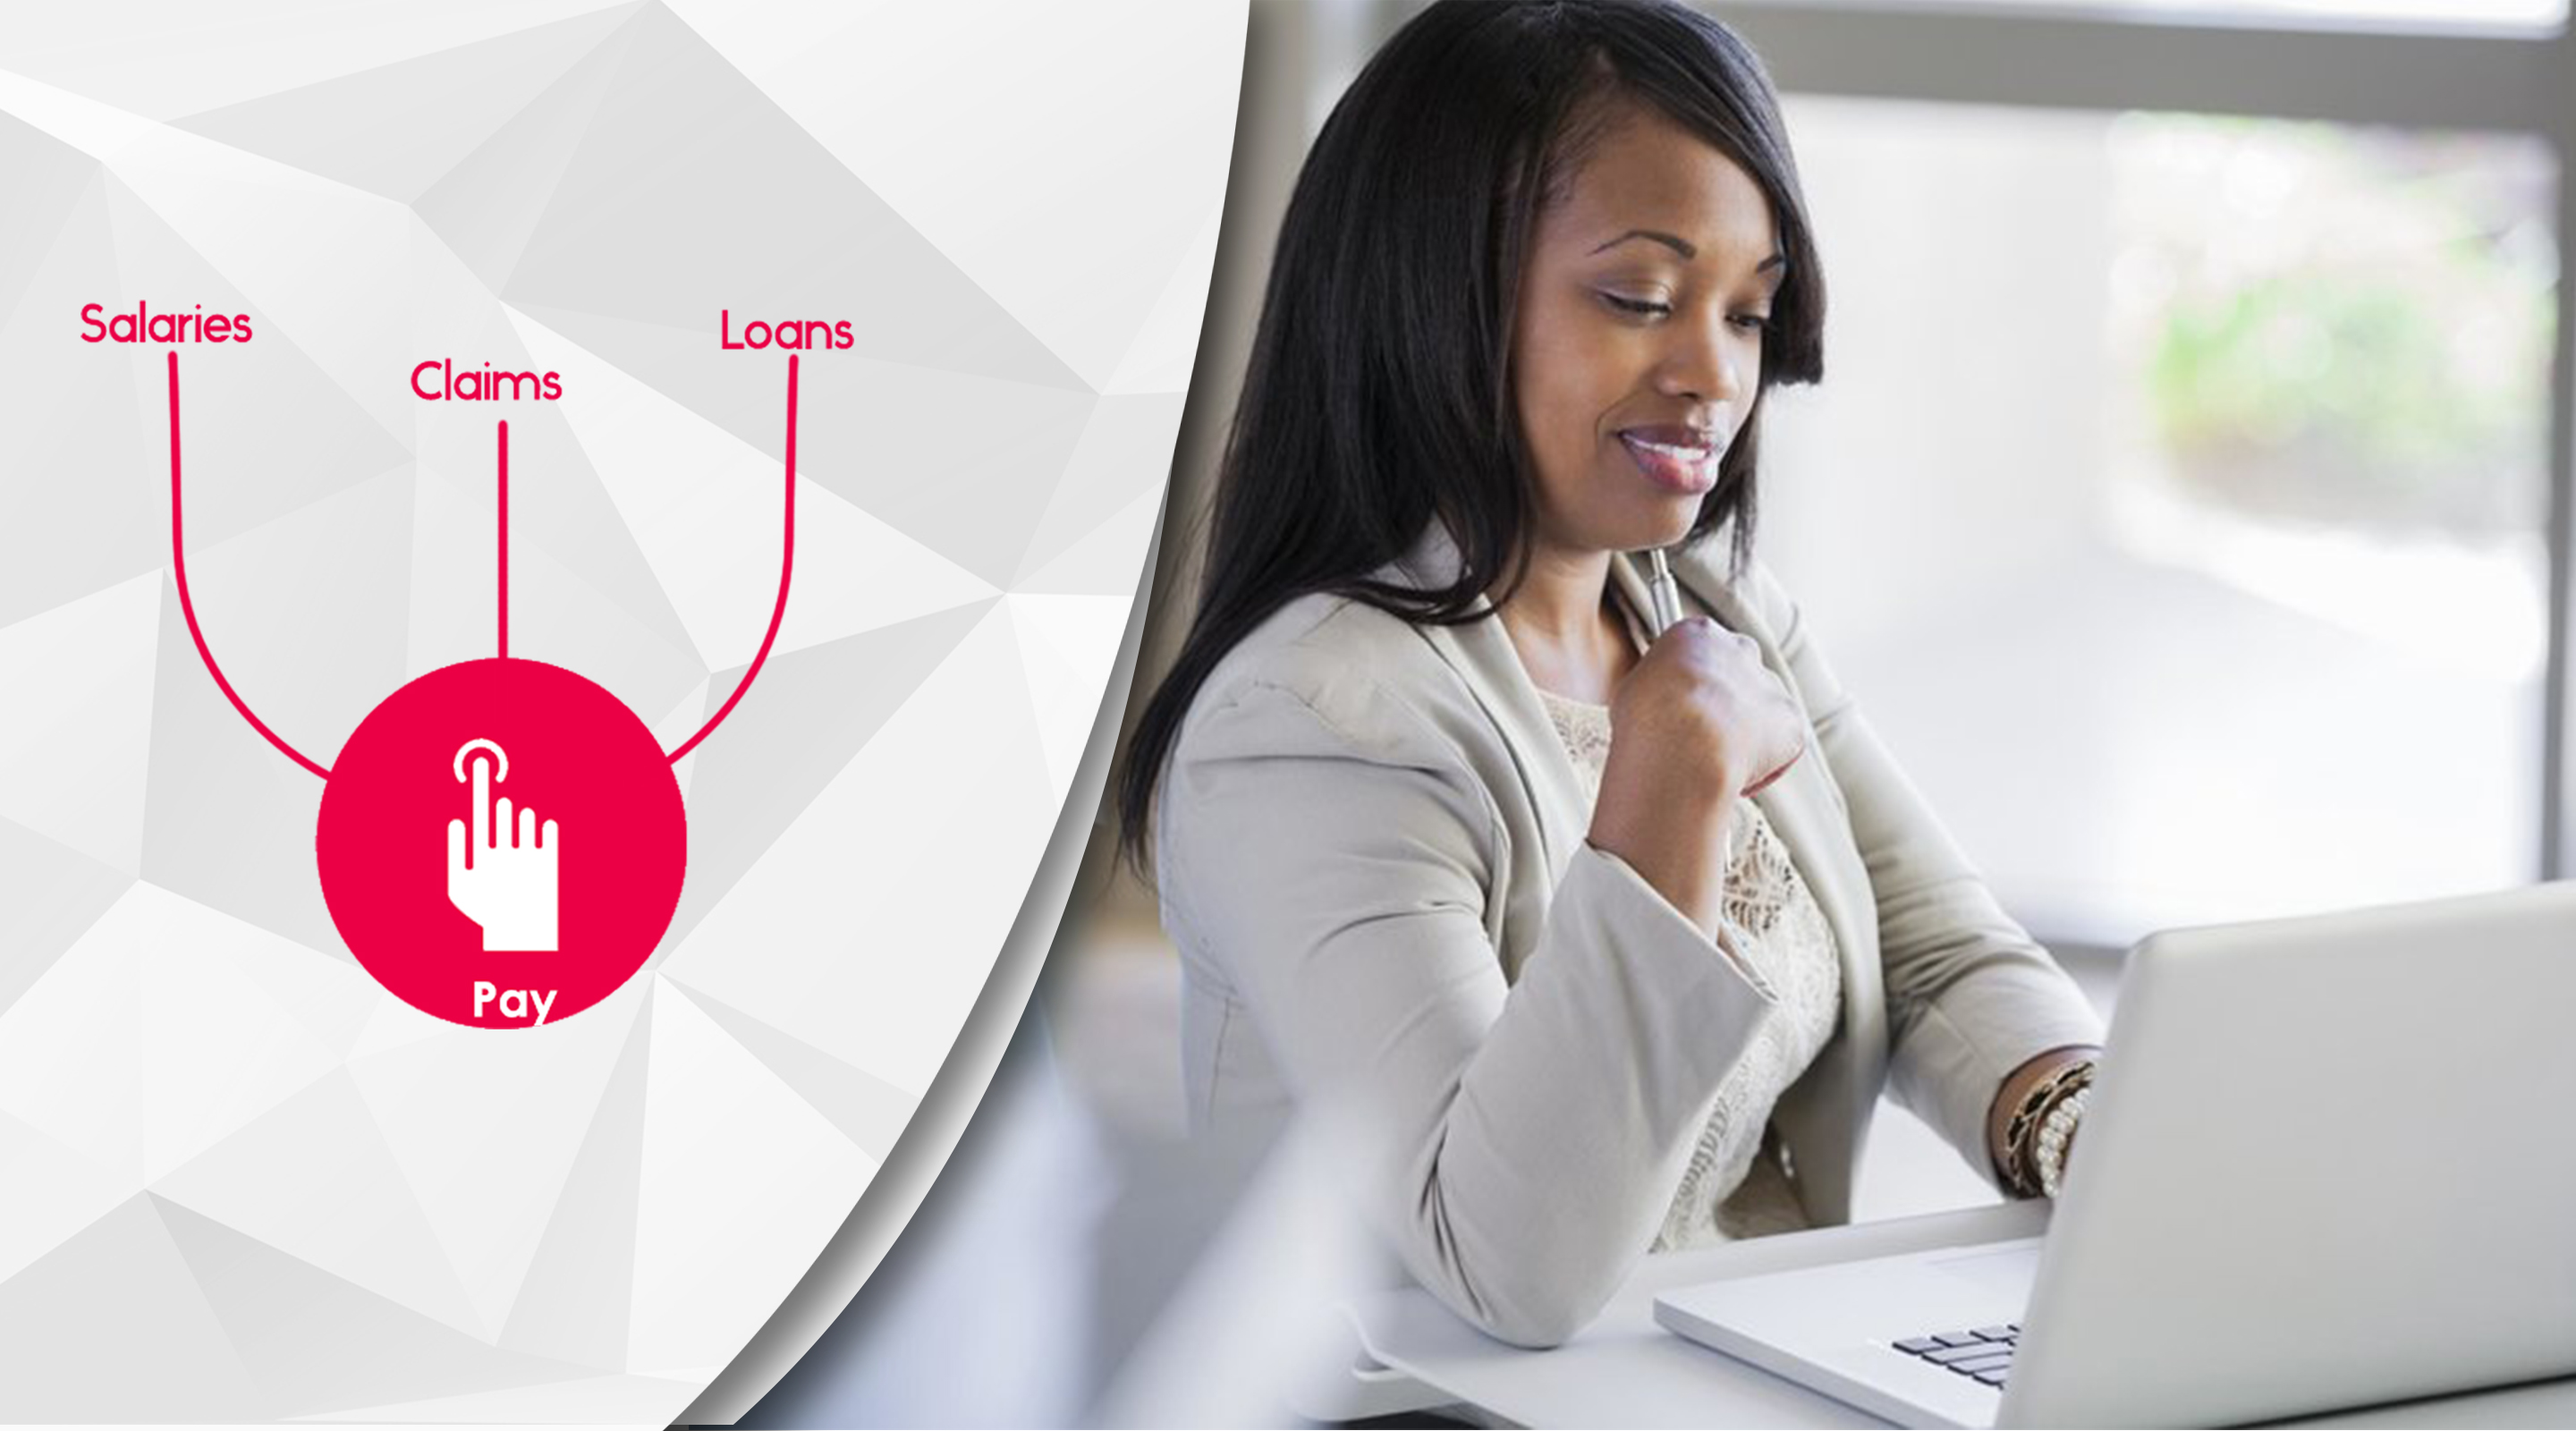
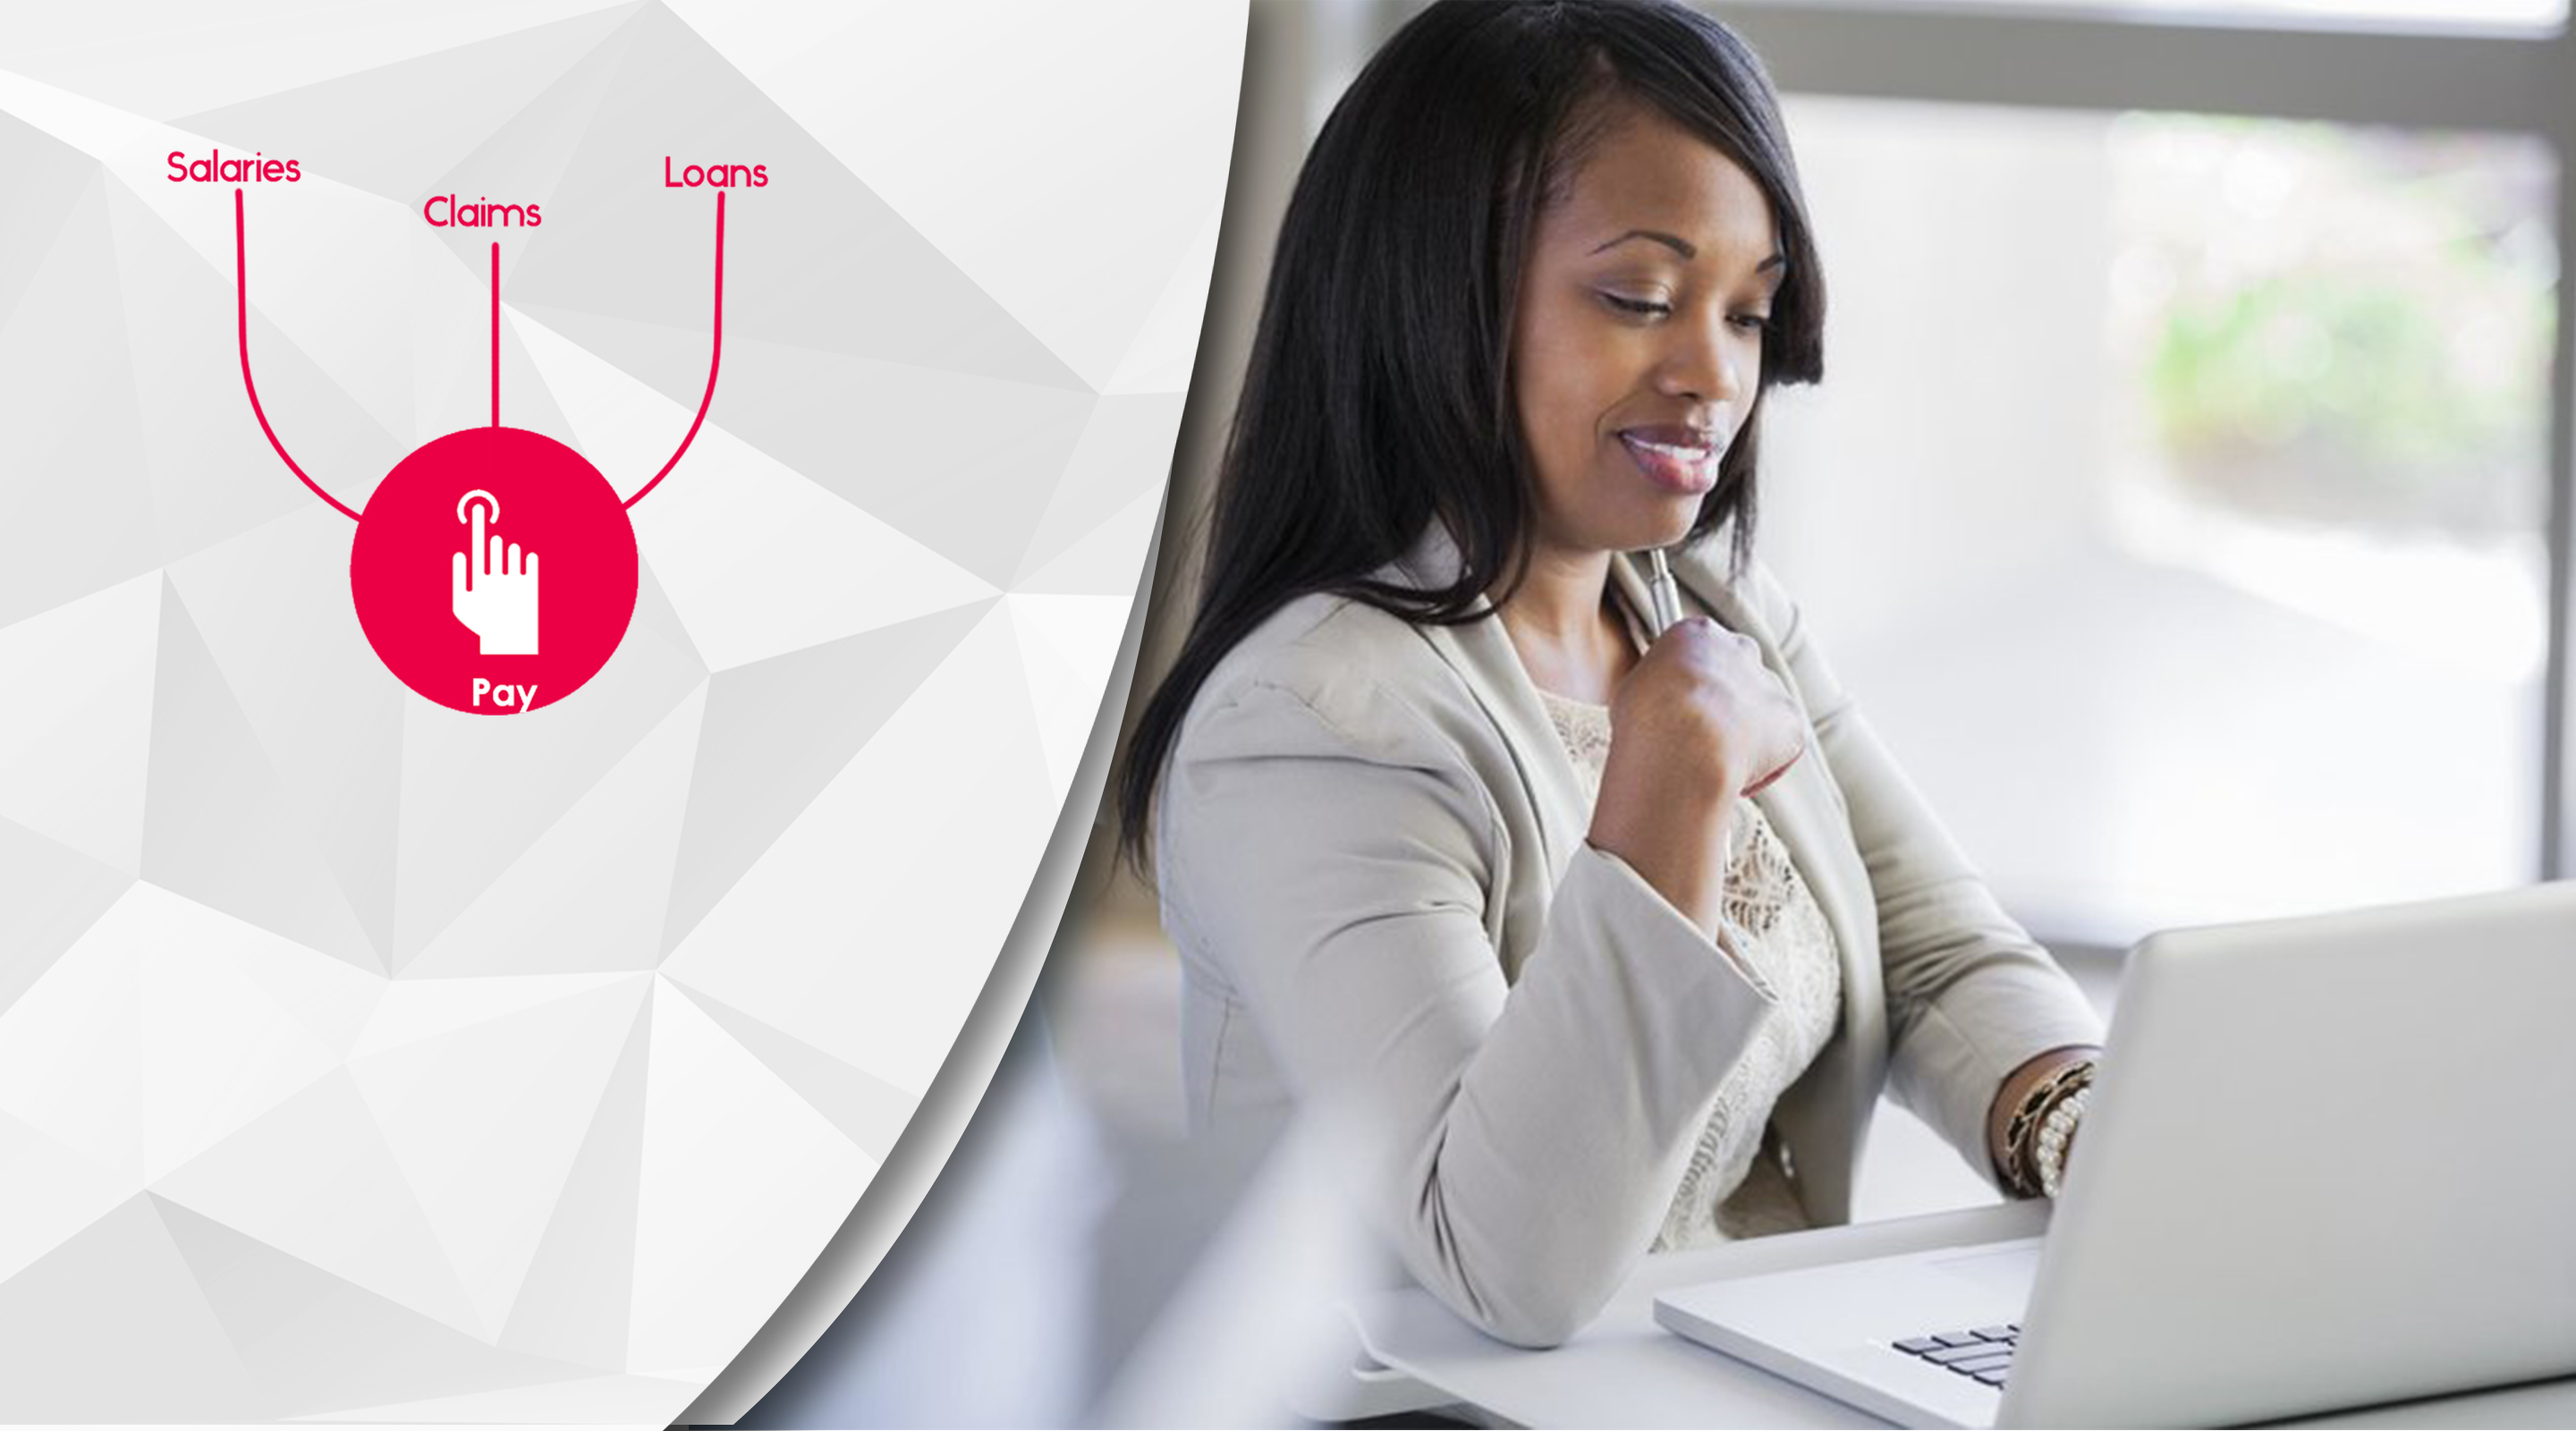
change font family and some images

Changed region(s): [[0.0312, 0.0938, 0.3438, 0.7188], [0.0625, 0.0938, 0.125, 0.1562], [0.1562, 0.125, 0.2188, 0.1562]]

diff --git a/public/css/style.css b/public/css/style.css
@@ -1519,7 +1519,7 @@ ul.navbar-nav > li > a:focus{
   	color: #fff;
   	margin: 20px auto 0px;
 	  font-weight: 900;
-	  font-family: 'Raleway' !important;
+	  font-family: 'Merriweather' !important;
   }
   
 
@@ -1538,8 +1538,9 @@ ul.navbar-nav > li > a:focus{
 
 .info-box {
 	word-wrap: break-word;
+	font-family: 'Raleway',sans-serif;
 	position: absolute;
-	bottom: -140px;
+	bottom: -100px;
 	left:30px;
 	width: 35%;
 	background-color: #fff;
@@ -1556,11 +1557,12 @@ clip-path: polygon(0 0, 100% 0, 86% 100%, 0% 100%);
 }
 
 .info-box-ebusiness{
+	font-family: 'Raleway',sans-serif;
 	word-wrap: break-word;
 	position: absolute;
-	bottom: -100px;
+	bottom: -80px;
 	left:50px;
-	width: 40%;
+	width: 37%;
 	background-color: #fff;
 	border: 1px solid #fdfdf1;
 	padding: 10px;
@@ -1575,15 +1577,16 @@ clip-path: polygon(0 0, 100% 0, 86% 100%, 0% 100%);
 }
 
 .info-box-white{
+	font-family: 'Raleway',sans-serif;
 	word-wrap: break-word;
 	position: absolute;
-	bottom: -90px;
-	left:120px;
-	width: 26%;
+	bottom: -100px;
+	left:100px;
+	width: 27%;
 	background-color: #fff;
 	border: 1px solid #fdfdf1;
 	padding: 20px;
-	border-radius: 2px;
+	border-radius: 5px;
 	-webkit-box-shadow: 3px 3px 20px 1px rgba(158,158,158,1);
 	-moz-box-shadow: 3px 3px 20px 1px rgba(158,158,158,1);
 	box-shadow: 3px 3px 20px 1px rgba(158,158,158,1);
@@ -1594,25 +1597,27 @@ clip-path: polygon(0 0, 100% 0, 86% 100%, 0% 100%);
 }
 
 .info-box-ebank{
+	font-family: 'Raleway',sans-serif;
 	word-wrap: break-word;
 	position: absolute;
 	bottom: -60px;
-	left:90px;
+	left:40px;
 	width: 32%;
 	background-color: #fff;
 	border: 1px solid #fdfdf1;
+	border-radius: 10px;
 	padding: 20px;
-	border-radius: 2px;
 	-webkit-box-shadow: 3px 3px 20px 1px rgba(158,158,158,1);
 	-moz-box-shadow: 3px 3px 20px 1px rgba(158,158,158,1);
 	box-shadow: 3px 3px 20px 1px rgba(158,158,158,1);
-	-webkit-clip-path: polygon(0 0, 100% 0, 86% 100%, 0% 100%);
-clip-path: polygon(0 0, 100% 0, 86% 100%, 0% 100%);
+	/* -webkit-clip-path: polygon(0 0, 100% 0, 86% 100%, 0% 100%);
+clip-path: polygon(0 0, 100% 0, 86% 100%, 0% 100%); */
 
 
 }
 
 .info-box-r {
+	font-family: 'Raleway',sans-serif;
 	word-wrap: break-word;
 	position: absolute;
 	opacity: 3;
@@ -2172,12 +2177,13 @@ li.korba-logo{
 
 /* css for new Ebanking page */
 .static{
-	width: 40%;
+	width: 30%;
 	float: left;
-	
-	background: #fff !important;
+	/* background-image: url('../img/other/E-Banking background.png') ; */
+	/* background: #fff !important; */
 	margin-top: 15%;
 	margin-bottom: 20%;
+	padding-left: 60px;
 	
 }
 

diff --git a/resources/views/layouts/custom.blade.php b/resources/views/layouts/custom.blade.php
@@ -15,6 +15,11 @@
     <!-- Bootsrap css -->
     <link rel="stylesheet" type="text/css" href="css/bootstrap/bootstrap.css">
 
+    <!-- Google fonts -->
+    <link href="https://fonts.googleapis.com/css?family=Quicksand:400,500" rel="stylesheet">
+    <link href="https://fonts.googleapis.com/css?family=Raleway:400,700" rel="stylesheet">
+    <link href="https://fonts.googleapis.com/css?family=Merriweather" rel="stylesheet">
+
     <!-- <link rel="stylesheet" type="text/css" href="css/onepage-scroll.css"> -->
     
     <!-- Owl Carousel -->

diff --git a/resources/views/layouts/app.blade.php b/resources/views/layouts/app.blade.php
@@ -25,6 +25,7 @@
     <!-- google fonts -->
     <link href="https://fonts.googleapis.com/css?family=Quicksand:400,500" rel="stylesheet">
     <link href="https://fonts.googleapis.com/css?family=Raleway:400,700" rel="stylesheet">
+    <link href="https://fonts.googleapis.com/css?family=Merriweather" rel="stylesheet">
     
     
     <!-- Responsive tabs -->

diff --git a/resources/views/ebanking.blade.php b/resources/views/ebanking.blade.php
@@ -6,7 +6,7 @@
     <h2> Korba E-Banking</h2>
 </div>
 
-<section style="height:90%;">
+<section style="height:90%;background-image: url('../img/other/E-Banking background.png') ;">
    
     
     <div class="info-box-ebank">
